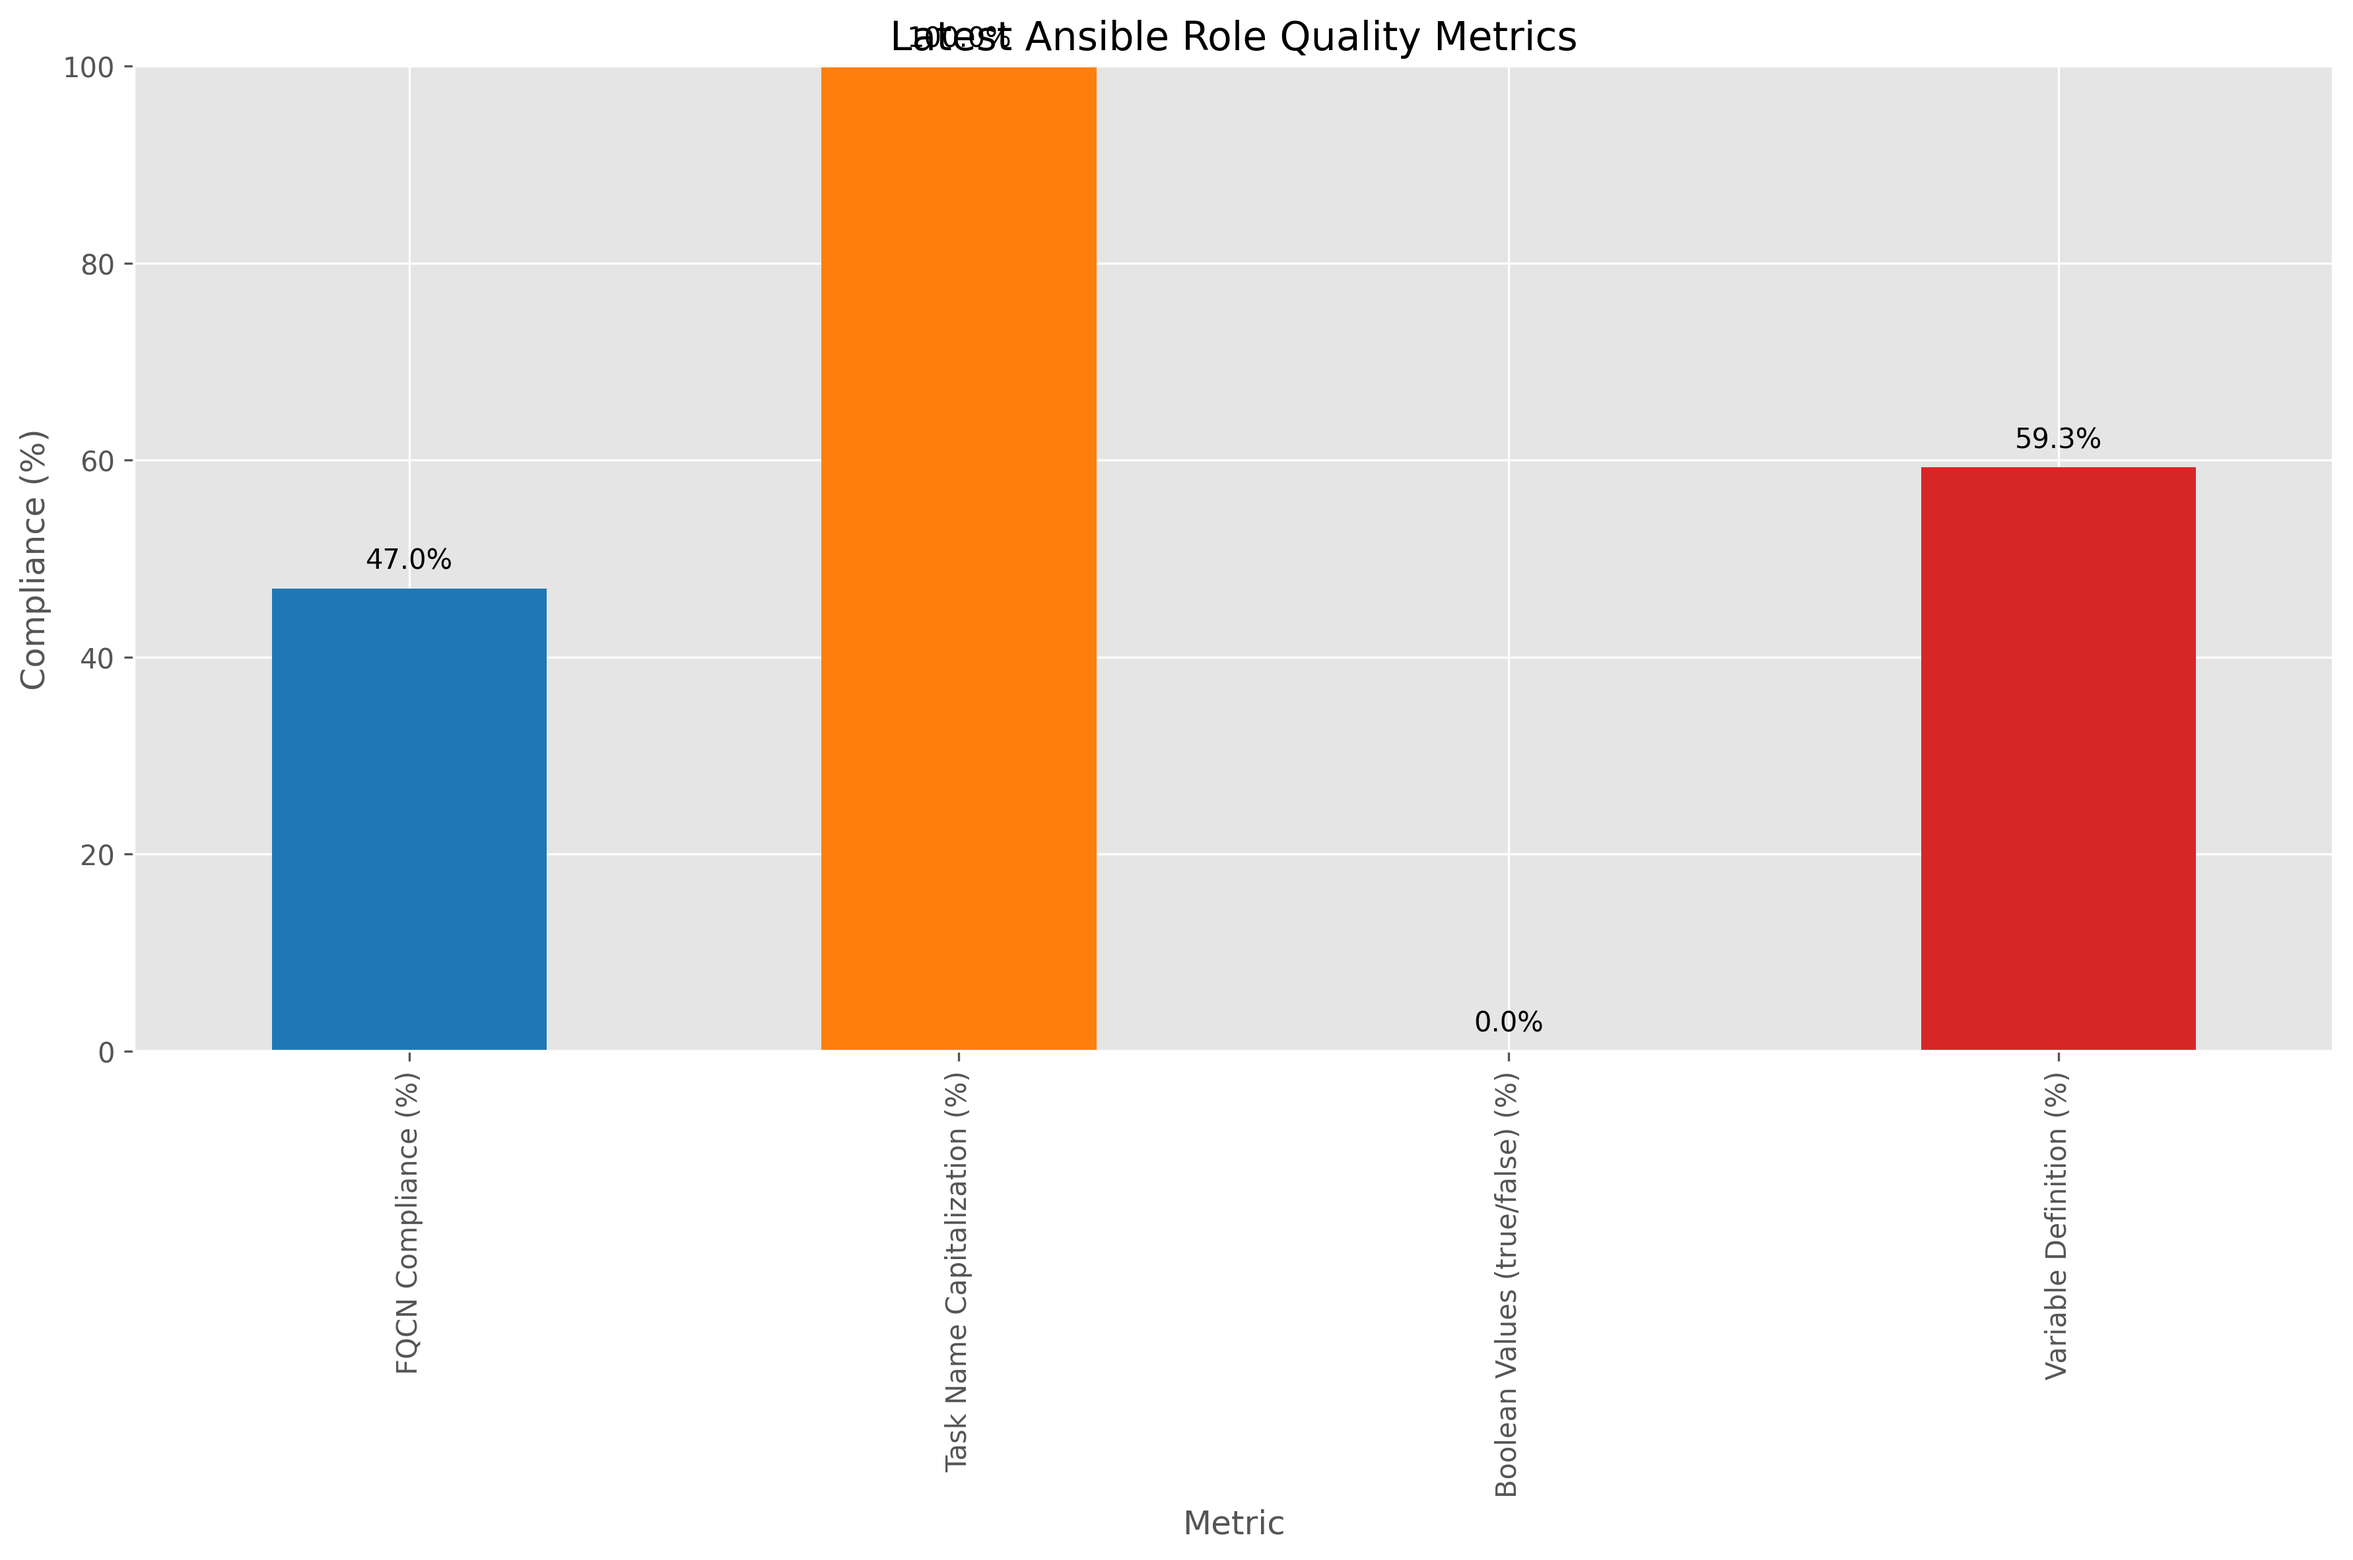
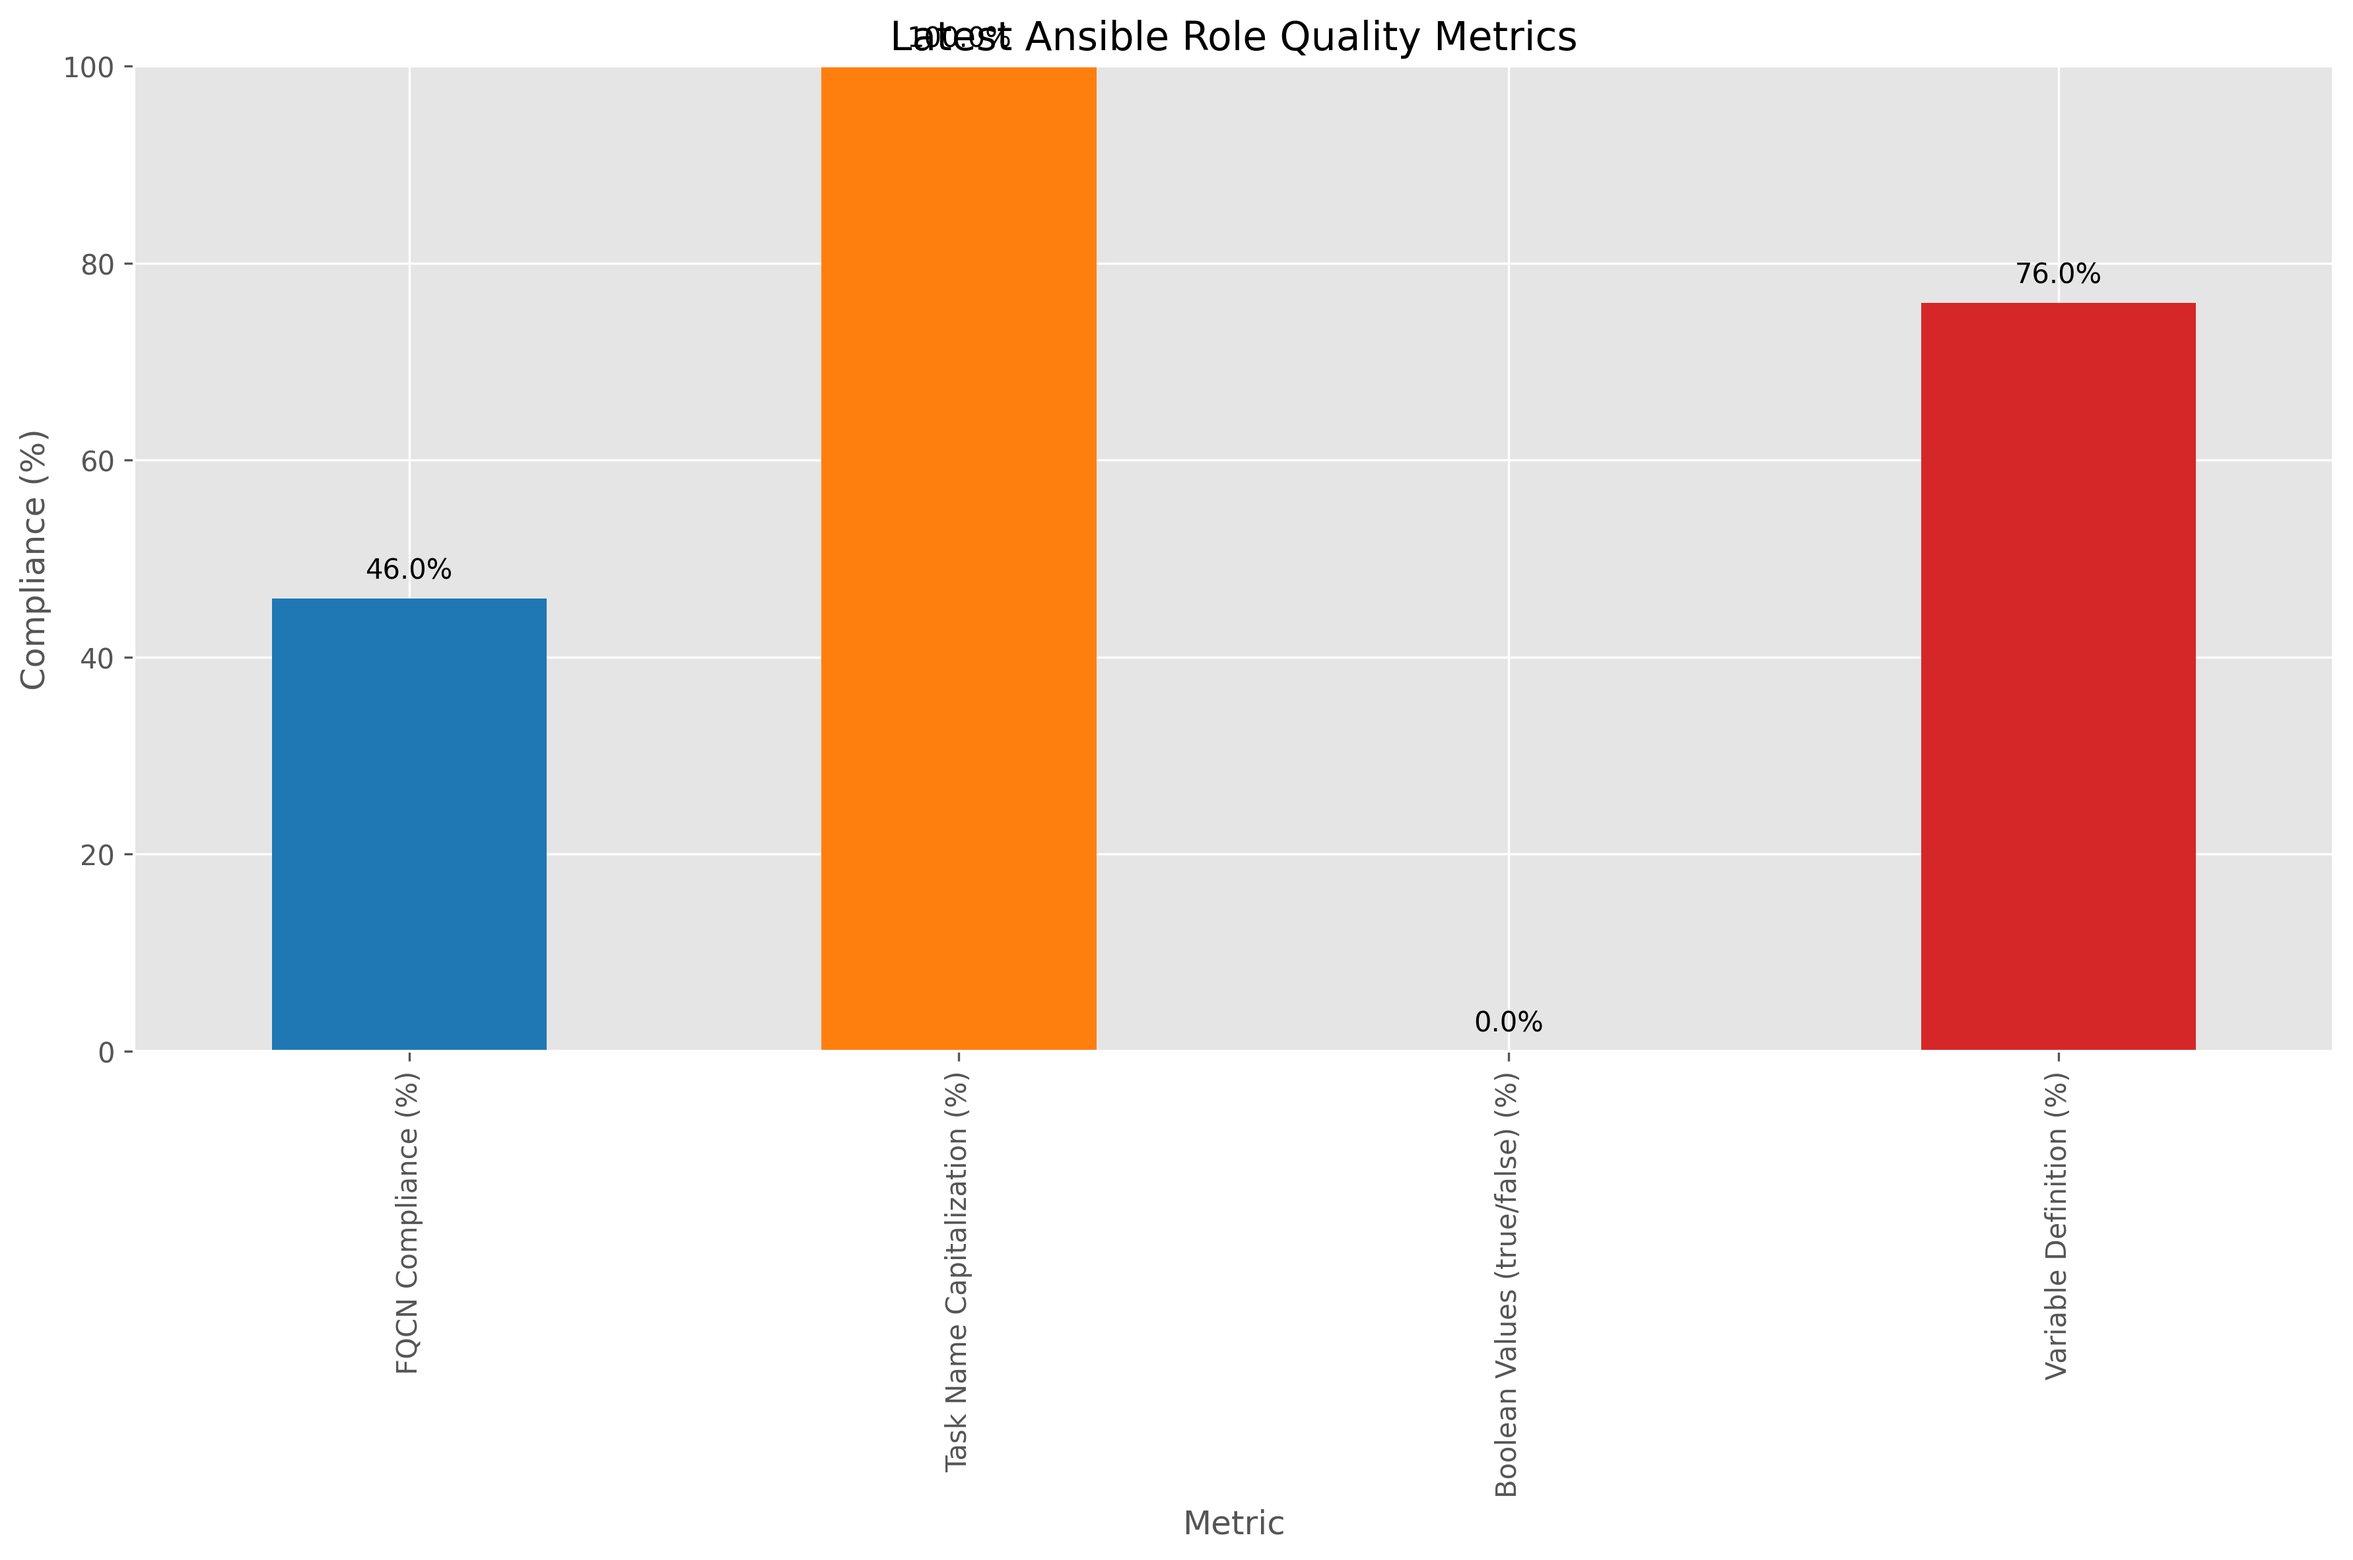
Update metrics (automated) 86381e575e3cb567ae7d61f2b827ec3665fe9a28

Changed region(s): [[0.8098, 0.1544, 0.9343, 0.3088], [0.1246, 0.3397, 0.218, 0.4014]]

diff --git a/metrics/metrics_summary.md b/metrics/metrics_summary.md
@@ -1,15 +1,15 @@
 # Chef to Ansible Conversion Metrics
 
-Last updated: 2025-06-08 00:29:45
+Last updated: 2025-06-15 00:29:57
 
 ## Latest Compliance Metrics
 
 | Metric | Value |
 |--------|-------|
-| FQCN Compliance (%) | 46.99% |
+| FQCN Compliance (%) | 45.98% |
 | Task Name Capitalization (%) | 100.00% |
 | Boolean Values (true/false) (%) | 0.00% |
-| Variable Definition (%) | 59.26% |
+| Variable Definition (%) | 76.00% |
 
 ## Compliance Metrics Over Time
 
